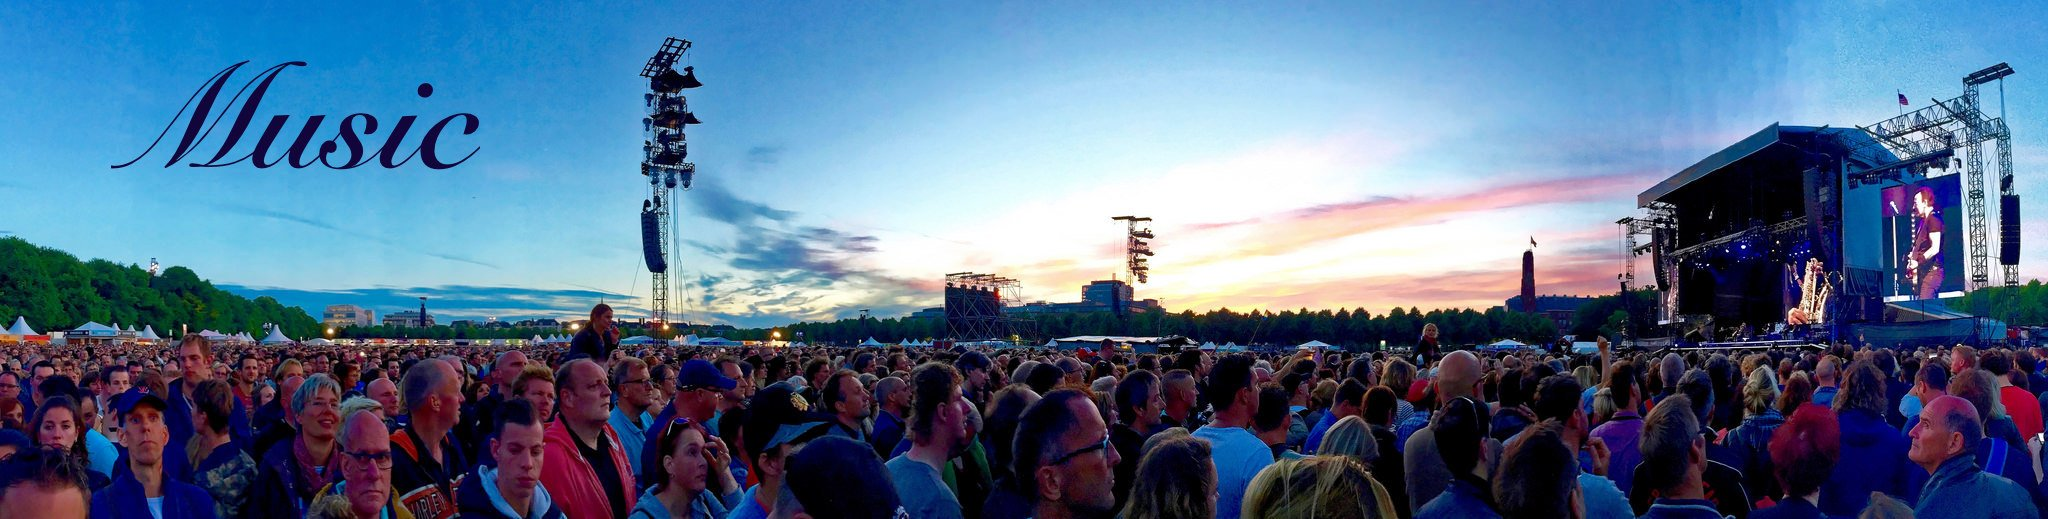
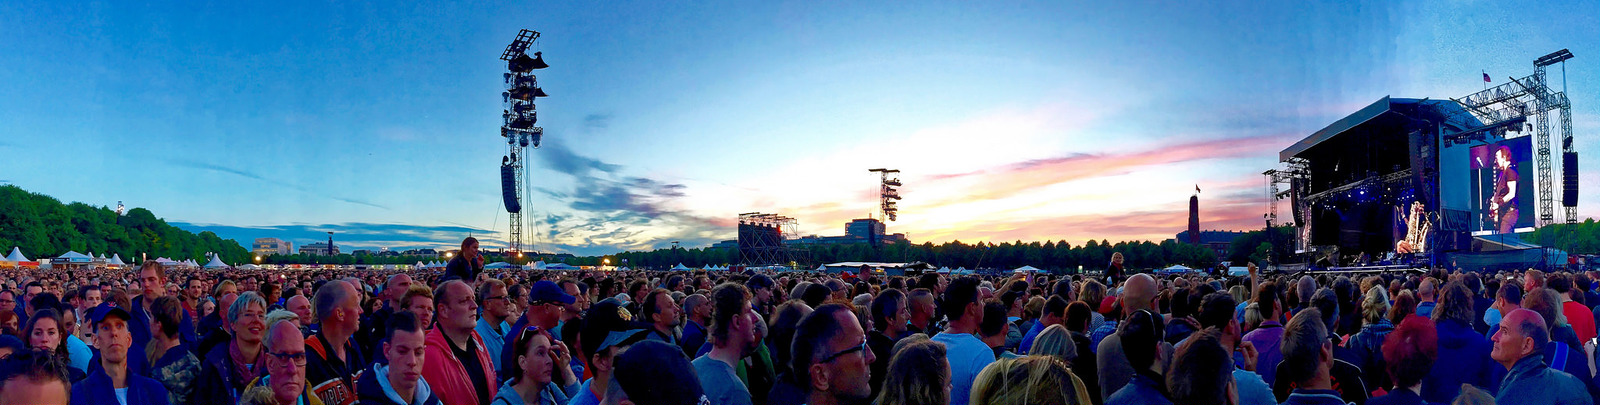
remove text from header images

diff --git a/layouts/partials/about.html b/layouts/partials/about.html
@@ -1,4 +1,4 @@
-<span class="image main"><img src="/img/chess2.jpg" alt="" /></span>
+<span class="image main"><img src="/img/chess.jpg" alt="" /></span>
 (<a href="/mcohen-cv.pdf">My Resume</a> | <a href="/linkedin">LinkedIn</a>)
 <p>
   I'm a Developer Advocate at Google. I build tools, demos, codelabs, and other things to make the <a href="https://cloud.google.com">Google Cloud Platform</a>
